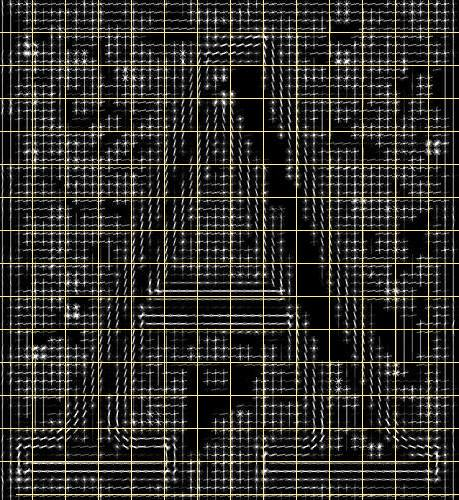
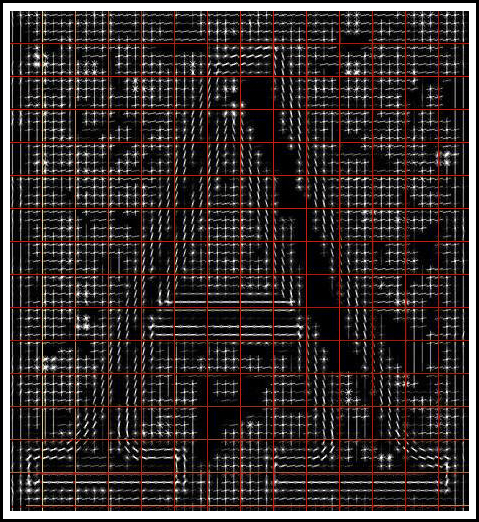
Nuevas imagenes

diff --git a/capitulo2/hog.tex b/capitulo2/hog.tex
@@ -3,7 +3,7 @@
 
 	Histograma de Gradientes Orientados o HOG (por sus siglas en inglés), son descriptores de características utilizados en visión por computadora y en el procesamiento de imágenes con el objetivo de realizar detección de objetos. Fueron introducidos por N. Dalal y B. Triggs en~\cite{DT05} con el propósito de realizar detección de personas; sin embargo, su uso no se limita solamente a esa área, sino que pueden ser utilizados en otras áreas como la detección de caracteres tal y como hicieron Wang et al. en \cite{wang}.
 	
-	Todas las imágenes, como por ejemplo la presentada en la figura~\ref{fig: Imagen Letra original}, contienen estructuras locales cuyas apariencias y formas pueden ser descriptas por la distribución de los gradientes de intensidad como se puede observar en la figura~\ref{fig: Image HOG}.	Un descriptor HOG, es un vector compuesto por una combinación de histogramas que representan los gradientes de intesidad en distintas regiones de una imagen. La implementación de estos descriptores, se obtiene dividiendo a la imagen en regiones de tamaño fijo llamadas celdas como se puede observar en la figura~\ref{fig: Image HOG celdas} y posteriormente, por cada celda, se calcula un histograma de gradientes para los píxeles en la celda ~\ref{fig: Cell Histogram}. Finalmente, como se explico anteriormente, el descriptor se obtiene de combinar los histogramas obtenidos~\ref{fig: Vector HOG}. La robustez ante cambios en la iluminación en una imagen se puede incrementar si se normalizan los histogramas, es decir, si se calcula una medida de la intensidad en una región más grande de la imagen, denominada bloque y se utiliza dicho valor para normalizar las celdas contenidas en el bloque.
+	Todas las imágenes, como por ejemplo la presentada en la figura~\ref{fig: Imagen Letra original}, contienen estructuras locales cuyas apariencias y formas pueden ser descriptas por la distribución de los gradientes de intensidad como se puede observar en la figura~\ref{fig: Image HOG}.	Un descriptor HOG, es un vector compuesto por una combinación de histogramas que representan los gradientes de intesidad en distintas regiones de una imagen. La implementación de estos descriptores, se obtiene dividiendo a la imagen en regiones de tamaño fijo llamadas celdas como se puede observar en la figura~\ref{fig: Division por bloques en imagen} y posteriormente, por cada celda, se calcula un histograma de gradientes para los píxeles en la celda ~\ref{fig: Histograma de Celda}. Finalmente, como se explico anteriormente, el descriptor se obtiene de combinar los histogramas obtenidos como muestra la figura~\ref{fig: Vector HOG}. La robustez ante cambios en la iluminación en una imagen se puede incrementar si se normalizan los histogramas, es decir, si se calcula una medida de la intensidad en una región más grande de la imagen, denominada bloque y se utiliza dicho valor para normalizar las celdas contenidas en el bloque.
 	
 	%El descriptor HOG mantiene una cuantas ventajas con respecto a otros métodos descriptores. Dado que el descriptor HOG opera en celdas localizadas, el método mantiene la invarianza a transformaciones geométricas y fotométricas, excepto para la orientación de objetos. Dichos cambios sólo aparecerían en regiones espaciales grandes~\cite{DT05}.
 	
@@ -28,23 +28,31 @@
 			\subfloat[Imagen original\label{fig: Imagen Letra original}]{
 				\fbox{ \includegraphics[scale=0.3]{img/letter_A.jpg} }
 			}
-			\subfloat[Descriptores HOG de la imagen original\label{fig: Image HOG}]{
-				\fbox{ \includegraphics[scale=0.3]{img/letter_A_HOG.jpg} }
-			}
 			\\
-			\subfloat[División por bloques de tamaño 4x4 celdas\label{fig: Image HOG celdas}]{
-				\fbox{ \includegraphics[scale=0.3]{img/letter_A_with_cells.jpg} }
-			}
-			\subfloat[Histograma de una celda\label{fig: Cell Histogram}]{
-				\fbox{ \includegraphics[scale=1.5]{img/letter_A_histogram.jpg} }
+			\subfloat[Descriptores HOG de la imagen original\label{fig: Image HOG}]{
+				\fbox{ \includegraphics[scale=0.35]{img/letter_A_HOG.jpg} }
 			}
 			\caption{Descriptores HOG de la imagen de un caracter}
 			\label{fig: HOG features}
 		\end{figure}	
-
+		
+		\begin{figure}[htbp]
+			\centering
+			\centerline{ \includegraphics[scale=0.7]{img/letter_A_with_cells.jpg} }
+			\caption[División por bloques de una imagen]{División de una imagen en bloques de 4x4 celdas}
+			\label{fig: Division por bloques en imagen}
+		\end{figure}
+		
+		\begin{figure}[htbp]
+			\centering
+			\centerline{ \includegraphics[scale=0.5]{img/letter_A_histogram.jpg} }
+			\caption[Histograma de una celda]{Histograma de una celda de un bloque de la imagen del caracter.}
+			\label{fig: Histograma de Celda}
+		\end{figure}
+		
 		\begin{figure}[htbp]
 			\centering
 			\fbox{ \includegraphics[scale=1]{img/feature_vector.jpg} }
-			\caption[Vector HOG]{Formación del vector de características a partir de la concatenación de los histogramas. \textbf{CAMBIAR IMAGEN por algo mejor}}
+			\caption[Vector HOG]{Formación del vector de características a partir de la concatenación de los histogramas.}
 			\label{fig: Vector HOG}
 		\end{figure}

diff --git a/capitulo2/imagenes.tex b/capitulo2/imagenes.tex
@@ -5,4 +5,4 @@
 	
 	\input{capitulo2/caract_locales.tex}
 	
-	\input{capitulo2/recon_objetos.tex}
+	%\input{capitulo2/recon_objetos.tex}
